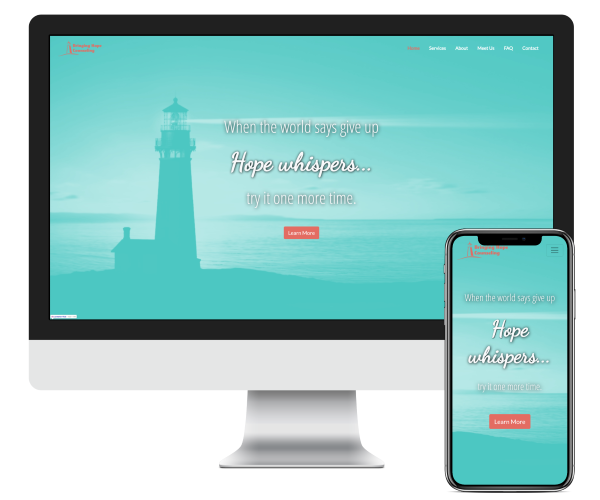
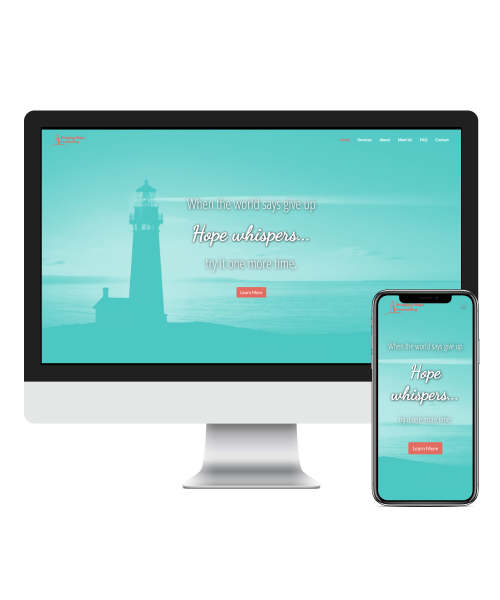
updated mockups

diff --git a/index.html b/index.html
@@ -107,7 +107,7 @@
     <h2 class="mast__title">here are some things i've done.</h2>
     <hr class="sep">
     <div class="row projects">
-            <div class="cardcontainer remove-all-margin-padding col-xs-12 col-sm-6 col-md-3 img-" style="background-image:url(./images/BHCmockup4.png)">
+            <div class="cardcontainer remove-all-margin-padding col-xs-12 col-sm-6 col-md-3" style="background-image:url(./images/BHCmockup4.png)">
               <div class="overlay">
                 <div class = "items"></div>
                   <div class = "items head">
@@ -121,7 +121,7 @@
                       </p>
                   </div>
                   <div class="items cart">
-                    <a href="#" class="emaillink"><i class="fa fa-link"></i>
+                    <a href="http://www.bringinghopecounseling.com" class="emaillink"><i class="fa fa-link"></i>
                     <span >SEE PROJECT</span></a>
                 </div>
               </div>
@@ -130,36 +130,36 @@
               <div class="overlay">
                 <div class = "items"></div>
                   <div class = "items head">
-                    <p>Bringing Hope Counseling</p>
+                    <p>Beyond Cleaning</p>
                     <hr>
                   </div>
                   <div class = "items price">
                     <p class="new">Web Design &<br />
                       Development<br />
-                      Logo Design<br />
+                      <br />
                       </p>
                   </div>
                   <div class="items cart">
-                    <a href="#" class="emaillink"><i class="fa fa-link"></i>
+                    <a href="http://www.beyondcleaning.com" class="emaillink"><i class="fa fa-link"></i>
                     <span >SEE PROJECT</span></a>
                 </div>
               </div>
             </div>
-            <div class="cardcontainer remove-all-margin-padding col-xs-12 col-sm-6 col-md-3">
+            <div class="cardcontainer remove-all-margin-padding col-xs-12 col-sm-6 col-md-3" style="background-image:url(./images/FPRMockup.png)">
               <div class="overlay">
                 <div class = "items"></div>
                   <div class = "items head">
-                    <p>Bringing Hope Counseling</p>
+                    <p>Frozen Pizza Review</p>
                     <hr>
                   </div>
                   <div class = "items price">
                     <p class="new">Web Design &<br />
-                      Development<br />
-                      Logo Design<br />
+                      Development,<br />
+                      Copywriting<br />
                       </p>
                   </div>
                   <div class="items cart">
-                    <a href="#" class="emaillink"><i class="fa fa-link"></i>
+                    <a href="http://www.frozenpizzareview.com" class="emaillink"><i class="fa fa-link"></i>
                     <span >SEE PROJECT</span></a>
                 </div>
               </div>
@@ -174,6 +174,7 @@
   <h5 class="mast__pretitle">contact</h5>
   <h2 class="mast__title">want to hire me or just have a question?<br />
    <a href="mailto:me@jordanbeck.dev" class="emaillink"> click here</a> to send me a mail.</h2>
+   <a href="mailto:me@jordanbeck.dev" class="emaillink fa-3x"><i class="fa fa-envelope"></i></a>
   <hr class="sep">
   </header>
   </section>

diff --git a/style.css b/style.css
@@ -230,9 +230,6 @@ main > section:nth-child(5):not(.site-menu), main > article:nth-child(5):not(.si
   margin-top: 4px;
 }
 
-
-
-
 #bio  {
   font-size: 200%;
   width: 50%;
@@ -460,7 +457,7 @@ main > section:nth-child(5):not(.site-menu), main > article:nth-child(5):not(.si
     font-size: 1em;
   }
   #projectsTopMargin  {
-    top: 10%;
+    top: 8%;
   }
   #aboutTopMargin {
     top: 10%;
@@ -476,6 +473,10 @@ main > section:nth-child(5):not(.site-menu), main > article:nth-child(5):not(.si
   }
   .head hr  {
     margin: 0;
+  }
+  .remove-all-margin-padding{
+    margin: 4px 1em 0 1em;
+    padding:0;
   }
 }
 
